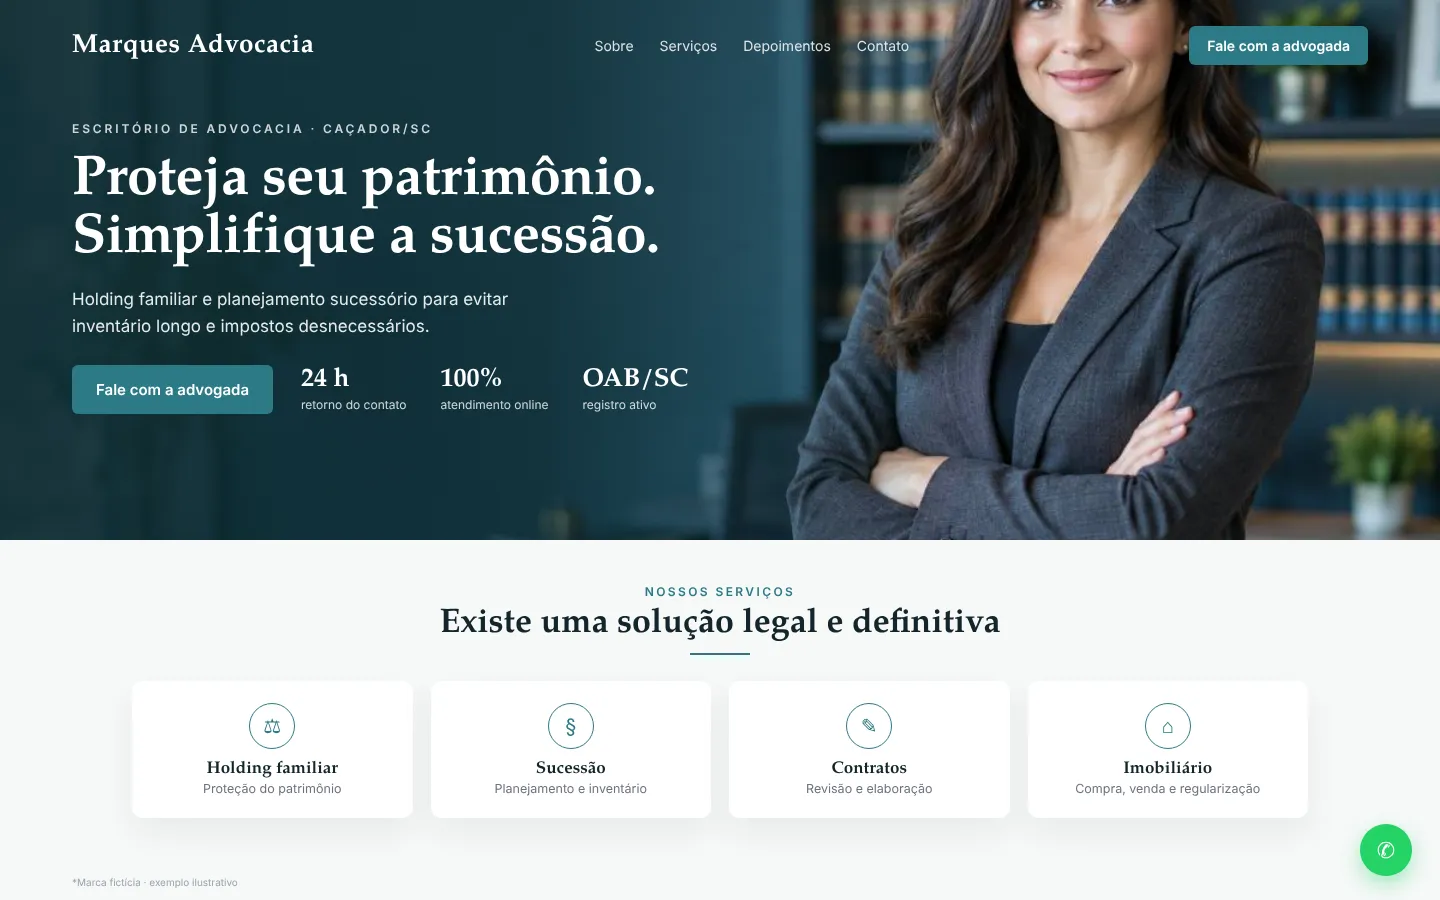
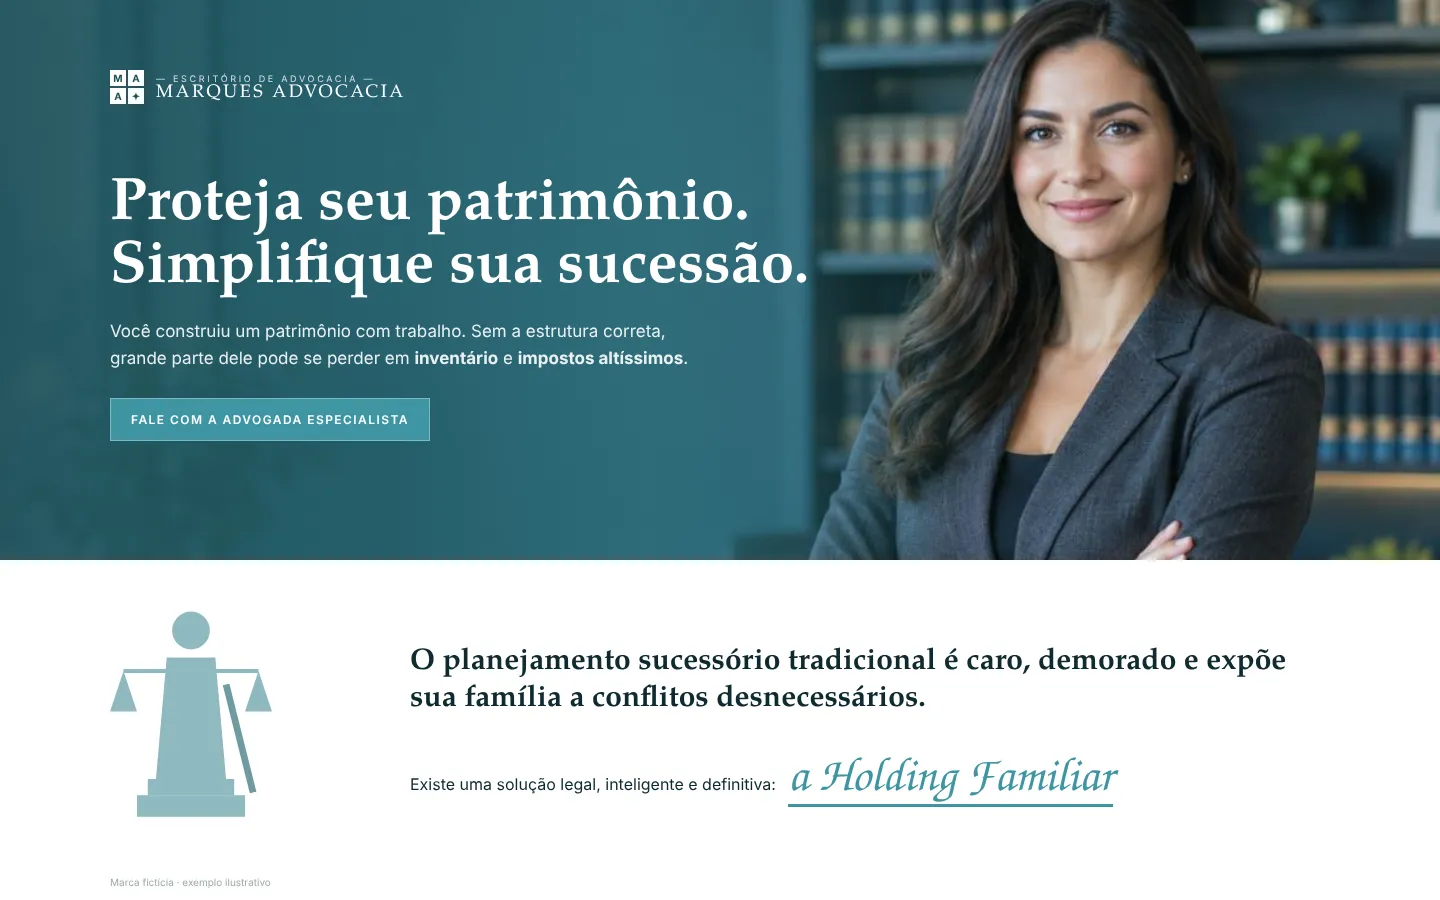
Landing pages: layout diferente para cada profissão
Claude-Session: https://claude.ai/code/session_01DMML7wgtXaFkAoeH8fBKTT

diff --git a/index.html b/index.html
@@ -468,7 +468,7 @@ footer .sp{margin-left:auto}
       <div><span class="badge ok">● programação avançada de CLP</span><h3>Lógica limpa, máquina previsível</h3><p>Texto estruturado (IEC 61131-3), sequenciadores por passos, controle de eixos e servos, receitas, alarmes e registro de dados. Programas novos ou migração de CLPs antigos.</p><a class="pill pill-glass" href="#contato">Falar sobre o meu projeto →</a></div>
     </article></div>
     <div class="hcar-slide" aria-roledescription="slide" aria-label="3 de 9"><article class="card glass hcar-app" id="lpSlide">
-      <div class="mock"><button type="button" class="mock-pc zoom" data-full="img/projetos/lp-pc-full.webp?v=3" aria-label="Ampliar landing page no computador"><img srcset="img/projetos/lp-pc-sm.webp?v=3 760w, img/projetos/lp-pc.webp?v=3 1440w" sizes="(max-width: 760px) 92vw, 600px" src="img/projetos/lp-pc.webp?v=3" width="1440" height="900" alt="Exemplo de landing page para profissional de fisioterapia no computador (marca fictícia)" decoding="async"></button><button type="button" class="mock-cel zoom" data-full="img/projetos/lp-cel-full.webp?v=3" aria-label="Ampliar landing page no celular"><img src="img/projetos/lp-cel.webp?v=3" width="390" height="780" alt="Exemplo de landing page para profissional no celular (marca fictícia)" decoding="async"></button></div>
+      <div class="mock"><button type="button" class="mock-pc zoom" data-full="img/projetos/lp-pc-full.webp?v=4" aria-label="Ampliar landing page no computador"><img srcset="img/projetos/lp-pc-sm.webp?v=4 760w, img/projetos/lp-pc.webp?v=4 1440w" sizes="(max-width: 760px) 92vw, 600px" src="img/projetos/lp-pc.webp?v=4" width="1440" height="900" alt="Exemplo de landing page para profissional de fisioterapia no computador (marca fictícia)" decoding="async"></button><button type="button" class="mock-cel zoom" data-full="img/projetos/lp-cel-full.webp?v=4" aria-label="Ampliar landing page no celular"><img src="img/projetos/lp-cel.webp?v=4" width="390" height="780" alt="Exemplo de landing page para profissional no celular (marca fictícia)" decoding="async"></button></div>
       <div><span class="badge ok">● landing pages · para profissionais</span><h3>Sua página, do seu jeito</h3><p>Landing pages personalizadas e exclusivas para dentistas, fisioterapeutas, advogados, barbearias e outros profissionais: layout próprio, agendamento pelo WhatsApp, rápida no celular e pronta para o Google.</p><div class="lp-chips" role="tablist" aria-label="Exemplos por profissão"><button type="button" data-k="" aria-pressed="true">Fisioterapia</button><button type="button" data-k="odo">Odontologia</button><button type="button" data-k="adv">Advocacia</button><button type="button" data-k="barb">Barbearia</button></div><a class="pill pill-glass" href="https://wa.me/5549991208836?text=Ol%C3%A1%2C%20ConectaOT!%20Quero%20uma%20landing%20page%20personalizada." target="_blank" rel="noopener">Quero a minha página →</a></div>
     </article></div>
     <div class="hcar-slide" aria-roledescription="slide" aria-label="4 de 9"><article class="card glass hcar-app">
@@ -874,9 +874,9 @@ go(0);play()})();
 </script>
 <script>
 (()=>{const sl=document.getElementById('lpSlide');if(!sl)return;const pc=sl.querySelector('.mock-pc'),ce=sl.querySelector('.mock-cel'),pi=pc.querySelector('img'),ci=ce.querySelector('img'),bs=[...sl.querySelectorAll('.lp-chips button')];let i=0,t;
-['odo','adv','barb'].forEach(k=>{['-pc-sm','-cel'].forEach(x=>{const im=new Image();im.src='img/projetos/lp-'+k+x+'.webp?v=3'})});
+['odo','adv','barb'].forEach(k=>{['-pc-sm','-cel'].forEach(x=>{const im=new Image();im.src='img/projetos/lp-'+k+x+'.webp?v=4'})});
 function set(n){i=n;const k=bs[n].dataset.k,b='img/projetos/lp'+(k?'-'+k:'');bs.forEach((x,j)=>x.setAttribute('aria-pressed',j===n));pi.style.opacity=ci.style.opacity=.3;
-pi.srcset=b+'-pc-sm.webp?v=2 760w, '+b+'-pc.webp?v=2 1440w';pi.src=b+'-pc.webp?v=3';ci.src=b+'-cel.webp?v=3';pc.dataset.full=b+'-pc-full.webp?v=3';ce.dataset.full=b+'-cel-full.webp?v=3';
+pi.srcset=b+'-pc-sm.webp?v=2 760w, '+b+'-pc.webp?v=2 1440w';pi.src=b+'-pc.webp?v=4';ci.src=b+'-cel.webp?v=4';pc.dataset.full=b+'-pc-full.webp?v=4';ce.dataset.full=b+'-cel-full.webp?v=4';
 pi.alt='Exemplo de landing page para '+bs[n].textContent+' no computador (marca fictícia)';ci.alt='Exemplo de landing page para '+bs[n].textContent+' no celular (marca fictícia)';
 const on=()=>{pi.style.opacity=ci.style.opacity=1};pi.decode?pi.decode().then(on,on):on()}
 bs.forEach((b,n)=>b.addEventListener('click',e=>{e.stopPropagation();set(n);clearInterval(t)}));
